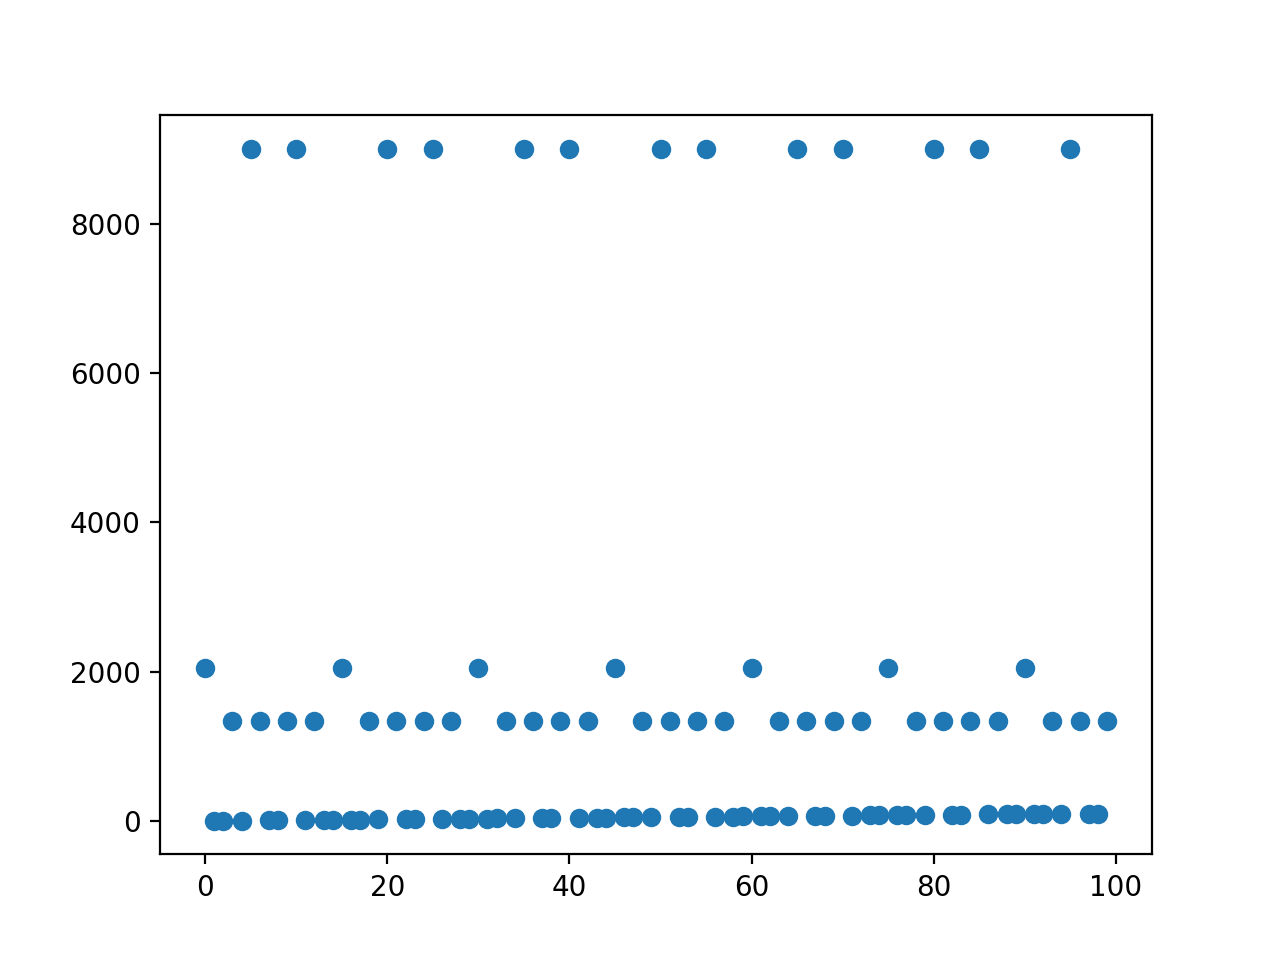
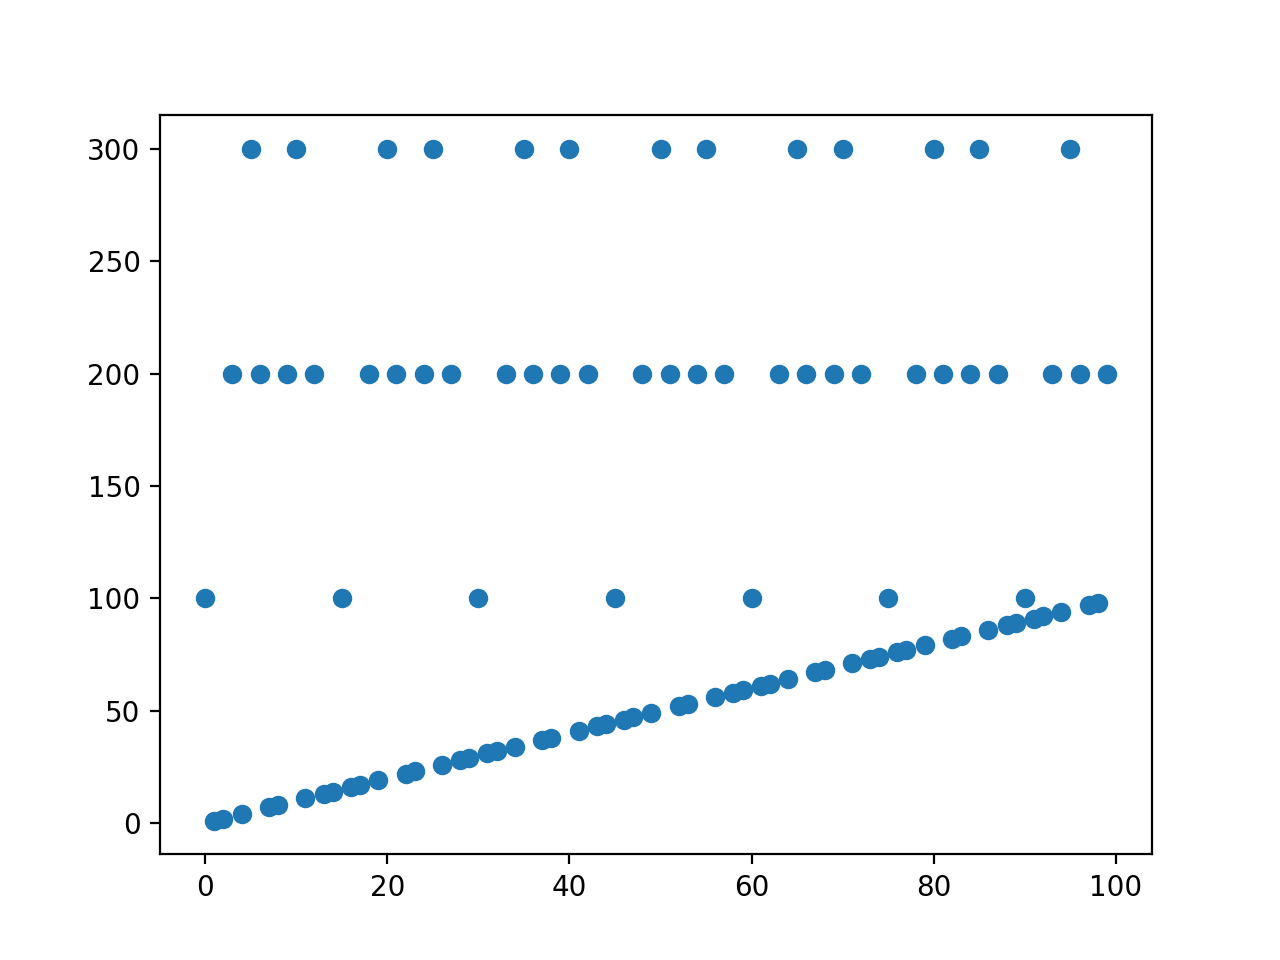
Fix some inconsitencies, update graph

diff --git a/_posts/2018-05-22-if-is-evil.md b/_posts/2018-05-22-if-is-evil.md
@@ -17,7 +17,7 @@ First, let's look at the behaviors that indicate that we are working with code t
 
 ## Questions associated with a program that is difficult to maintain
 1. What is the state of the program?
-1. How can I add new logic without effecting old logic?
+1. How can I add new logic without affecting old logic?
 
 ### What is the state of a program?
 * The data bound to each variable.
@@ -68,7 +68,7 @@ In this case, we do not know the value passed in to determineElegibility, becaus
   This is what you stop on when you set a breakpoint. Together, these three pieces of information are the entire application state at a point in time.
 
 ### Why is it hard to add new logic without breaking old logic?
-Logic interferes with itself. Adding new logic can impact the state of a variable at a point in time. It can impact which lines of code run at a given time. It can also introduce instances where the concrete type of an interface is now what would be expected.
+Logic interferes with itself. Adding new logic can impact the state of a variable at a point in time. It can impact which lines of code run at a given time. It can also introduce instances where the concrete type of an interface is not what would be expected.
 
 # How do we fix these things?
 I'm glad you asked (yes you did). By following SOLID principles! I am not going to just rattle these off though. I want to talk about them as they pertain to `if`.
@@ -120,11 +120,11 @@ This code is trying to take in a number, find it on a graph, and return a value 
 ```swift
 func fizzbuzz(x: Int) -> Int {
     if (x % 15 == 0) {
-        return 2048
+        return 100
     } else if (x % 3 == 0) {
-        return 9001
+        return 200
     } else if (x % 5 == 0){
-        return 1337
+        return 300
     } else {
         return x
     }
